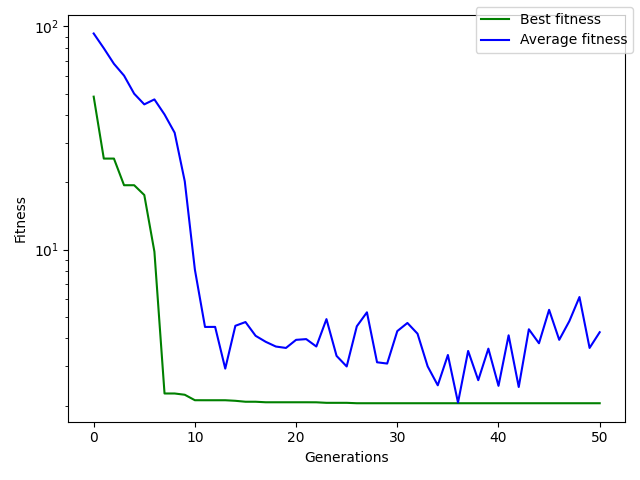
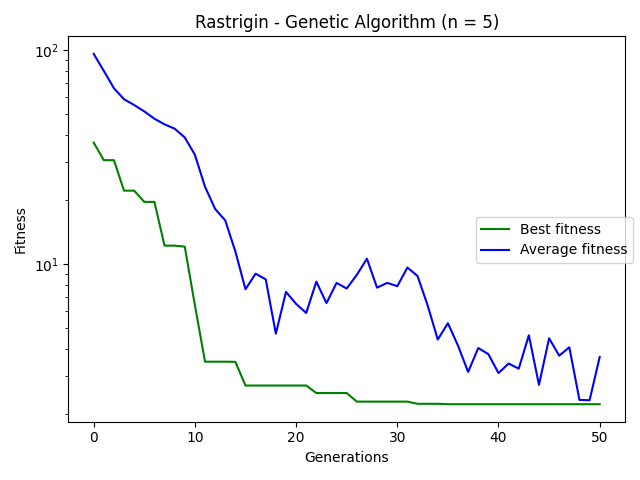
Modified GA to take title and add to graphs

diff --git a/algorithms/genetic_algorithm.py b/algorithms/genetic_algorithm.py
@@ -127,7 +127,7 @@ def geneticAlgorithm(population, crossover, crossoverRate, mutate, mutationRate,
     return solution, historyBest, historyAve, historyWorst
 
 
-def printGA(bestTuples, avg, worst, filename):
+def printGA(bestTuples, avg, worst, filename, title):
     fig, ax1 = plt.subplots()
     bestColor = 'green'
     avgColor = 'blue'
@@ -139,10 +139,11 @@ def printGA(bestTuples, avg, worst, filename):
     ax1.set_xlabel('Generations')
     ax1.set_ylabel('Fitness')
     plt.yscale("log")
+    plt.title(title)
     ax1.plot(best, color=bestColor, label='Best fitness')
     ax1.plot(avg, color=avgColor, label='Average fitness')
     # ax1.plot(worst, color=worstColor, label='Worst fitness')
-    fig.legend()
+    fig.legend(loc='center right')
     ax1.tick_params(axis='y')
 
     fig.tight_layout()

diff --git a/rastrigin.py b/rastrigin.py
@@ -56,7 +56,8 @@ for n in Ns:
 
     init = [rastrigin.random_feasible_point() for i in range(popSize)]
     res, best, avg, worst = geneticAlgorithm(init, rastrigin.crossover, crossoverRate, rastrigin.mutate, mutationRate, rastrigin.fitness, numGenerations)
-    printGA(best, avg, worst, f"{rastrigin_folder}GA_n={n}_Pop={popSize}_Gens={numGenerations}_crossRate={crossoverRate}_mutRat={mutationRate}.png")
+    printGA(best, avg, worst, f"{rastrigin_folder}GA_n={n}_Pop={popSize}_Gens={numGenerations}_crossRate={crossoverRate}_mutRat={mutationRate}.png", 
+        f"Rastrigin - Genetic Algorithm (n = {n})")
 
     """
     Simulated Annealing

diff --git a/x^2.py b/x^2.py
@@ -36,7 +36,7 @@ mutationRate = 0.032
 numGenerations = max(100, maxValue//10)
 
 res, best, avg, worst = geneticAlgorithm(inputs, crossover, crossoverRate, mutate, mutationRate, square, numGenerations)
-printGA(best, avg, worst, f"{folder}GA_Pop={populationSize}_Gens={numGenerations}_crossRate={crossoverRate}_mutRat={mutationRate}.png")
+printGA(best, avg, worst, f"{folder}GA_Pop={populationSize}_Gens={numGenerations}_crossRate={crossoverRate}_mutRat={mutationRate}.png", f"X^2 - Genetic Algorithm")
 
 """
 Simulated Annealing
